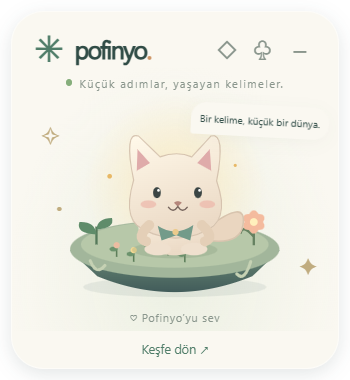
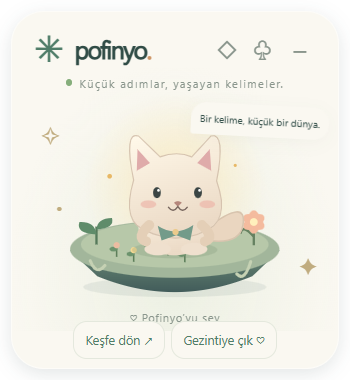
Add roaming desktop companion and daydream bubbles

Changed region(s): [[0.2286, 0.8684, 0.7714, 0.9553]]

diff --git a/ui/mochi.html b/ui/mochi.html
@@ -1,5 +1,5 @@
 <!doctype html>
-<html lang="tr"><head><meta charset="utf-8"><meta name="viewport" content="width=device-width,initial-scale=1"><meta http-equiv="Content-Security-Policy" content="default-src 'self'; script-src 'self'; style-src 'self' 'unsafe-inline'; img-src 'self' data:; media-src 'self'; connect-src 'none'; object-src 'none'; base-uri 'none'; form-action 'none'"><title>Pofinyo · Küçük adımlar, yaşayan kelimeler</title><link rel="stylesheet" href="mochi.css"><link rel="stylesheet" href="journey.css"><link rel="stylesheet" href="education.css"></head>
+<html lang="tr"><head><meta charset="utf-8"><meta name="viewport" content="width=device-width,initial-scale=1"><meta http-equiv="Content-Security-Policy" content="default-src 'self'; script-src 'self'; style-src 'self' 'unsafe-inline'; img-src 'self' data:; media-src 'self'; connect-src 'none'; object-src 'none'; base-uri 'none'; form-action 'none'"><title>Pofinyo · Küçük adımlar, yaşayan kelimeler</title><link rel="stylesheet" href="mochi.css"><link rel="stylesheet" href="journey.css"><link rel="stylesheet" href="education.css"><link rel="stylesheet" href="companion.css"></head>
 <body data-theme="dawn"><main id="widget">
 <header><div class="brand"><span class="brand-mark">✳</span> pofinyo<span class="brand-dot">.</span></div><div class="window-tools"><button id="pass-through" aria-label="Tıklamaları masaüstüne geçir" title="Tıklamaları geçir · tepsiden etkileşime dön">◇</button><button id="wardrobe" title="Pofinyo’yu kişiselleştir" aria-label="Pofinyo’yu kişiselleştir">✿</button><button id="pin" title="Üstte tut" aria-label="Üstte tut" aria-pressed="false">♧</button><button id="mini" title="Küçük arkadaş modu" aria-label="Küçük arkadaş modu">⌁</button><button id="hide" title="Sistem tepsisine gizle" aria-label="Gizle">−</button></div></header>
 <section class="habitat" aria-label="Pofinyo’nun yaşayan adası">
@@ -22,7 +22,7 @@
 <button id="pet" class="pet-hint">♡ Pofinyo’yu sev</button><div id="particles" aria-hidden="true"></div>
 </section>
 <section class="learning" id="learning"><button id="daily" class="daily-strip" aria-label="Bugünkü rotam"><span class="daily-orbit" id="daily-orbit">0</span><span><strong>Bugünkü rotam</strong><small id="daily-progress">5 küçük adım</small></span><span class="daily-arrow">↗</span></button><div class="lesson-top"><span class="eyebrow" id="lesson-label">GÜNÜN KÜÇÜK KEŞFİ</span><span id="level-badge" class="badge">EN · A1</span></div><div class="word-row"><h1 id="word"></h1><button id="bookmark" class="round bookmark" aria-label="Favorilere ekle" aria-pressed="false" title="Favorilere ekle">☆</button><button id="speak" class="round" aria-label="Telaffuzu dinle" title="Telaffuzu dinle">♪</button></div><p class="phonetic" id="phonetic"></p><button class="reveal" id="reveal">Anlamını keşfet <span>↗</span></button><div id="meaning" hidden><p id="translation"></p><p id="example"></p><p id="note"></p></div><div class="lesson-actions"><button class="primary" id="practice">Birlikte oynayalım <span>↗</span></button><button class="next" id="next" aria-label="Sonraki kelime" title="Sonraki kelime">→</button></div><p class="subtle" id="due-status"></p></section>
-<footer><button id="garden"><span>❋</span> Bahçem <b id="xp">0</b></button><button id="journal" aria-label="Kelime defterim">◫ <span>Defterim</span></button><button id="settings" aria-label="Ayarlar">☷ <span>Ayarlar</span></button></footer><button id="expand" hidden>Keşfe dön ↗</button>
+<footer><button id="garden"><span>❋</span> Bahçem <b id="xp">0</b></button><button id="journal" aria-label="Kelime defterim">◫ <span>Defterim</span></button><button id="settings" aria-label="Ayarlar">☷ <span>Ayarlar</span></button></footer><div id="companion-actions"><button id="expand" hidden>Keşfe dön ↗</button><button id="roam-toggle" aria-pressed="false">Gezintiye çık ♡</button></div>
 </main>
 <dialog id="panel"><div class="panel-heading"><div><span class="eyebrow" id="panel-kicker">KÜÇÜK BİR MACERA</span><h2 id="panel-title">Oyun zamanı</h2></div><button id="panel-close" class="round" aria-label="Kapat">×</button></div><div id="panel-content"></div></dialog>
-<script src="lessons.js"></script><script src="journey.js"></script><script src="vendor/fsrs.js"></script><script src="pedagogy.js"></script><script src="curriculum.js"></script><script src="memory.js"></script><script src="mochi.js"></script><script src="studio.js"></script><script src="education.js"></script></body></html>
+<script src="lessons.js"></script><script src="journey.js"></script><script src="vendor/fsrs.js"></script><script src="pedagogy.js"></script><script src="curriculum.js"></script><script src="memory.js"></script><script src="mochi.js"></script><script src="studio.js"></script><script src="education.js"></script><script src="companion.js"></script></body></html>

diff --git a/ui/companion.js b/ui/companion.js
@@ -1,0 +1,35 @@
+'use strict';
+let companion={enabled:false,phase:'off',direction:1},thoughtAt=0,thoughtIndex=0;
+const daydreams=['Bulutların da kelimeleri var mıdır? ☁','Bir yaprak daha… küçük bir başlangıç. ♧','Biraz gezsem, sonra bir kelime öğrensem…','Acaba yarın hangi kelime filizlenecek?','Merak etmek de bir başlangıç. ✧','Bir çay molası kadar küçük bir keşif…','Pof! Aklımda minik bir fikir var.','Sana sessizce eşlik ediyorum. ♡'];
+function nextThought(now=Date.now(),force=false){
+ if(!companion.enabled||hidden||$('panel').open||(!force&&now-thoughtAt<17000))return;
+ thoughtAt=now;thoughtIndex++;
+ const familiar=allLessons().filter(c=>c.language===state.settings.language&&c.mode!=='grammar'&&((state.records[c.id]?.best||0)>0||Object.hasOwn(state.education.introduced,c.id)));
+ let thought=daydreams[thoughtIndex%daydreams.length];
+ if(familiar.length&&thoughtIndex%3===0){const card=familiar[Math.floor(thoughtIndex/3)%familiar.length];thought=`${card.front}… ${card.answer}. Küçük bir bağ daha. ♡`;}
+ $('bubble').textContent=thought.length>112?thought.slice(0,109)+'…':thought;$('bubble').title=thought;
+}
+function applyCompanion(value){
+ if(!value||typeof value.enabled!=='boolean')return;
+ const started=!companion.enabled&&value.enabled;companion=value;
+ if(value.layout){mini=value.layout==='pet';document.body.classList.toggle('mini',mini);$('expand').hidden=!mini;}
+ document.body.classList.toggle('roaming',value.enabled);document.body.classList.toggle('walking',value.phase==='walking');document.body.dataset.direction=value.direction===-1?'left':'right';
+ $('roam-toggle').textContent=value.enabled?'Burada dinlen ⏸':'Gezintiye çık ♡';$('roam-toggle').setAttribute('aria-pressed',String(value.enabled));
+ if(typeof value.pinned==='boolean'){pinned=value.pinned;$('pin').setAttribute('aria-pressed',String(pinned));}
+ $('bubble').setAttribute('aria-live',value.enabled?'off':'polite');
+ if(started)nextThought(Date.now(),true);else nextThought();
+ if(!value.enabled){$('bubble').removeAttribute('title');document.body.classList.remove('walking');}
+ if($('roaming-setting'))$('roaming-setting').checked=value.enabled;
+}
+async function setCompanionRoaming(value){if(!native?.setRoaming)return;await syncCompanionMotion();applyCompanion(await native.setRoaming(value));}
+function syncCompanionMotion(){return native?.companionMotion?.(state.settings.motion&&!matchMedia('(prefers-reduced-motion: reduce)').matches);}
+native?.onCompanion?.(applyCompanion);
+$('roam-toggle').onclick=event=>{const pointer=event.detail>0;guarded(async()=>{await setCompanionRoaming(!companion.enabled);if(pointer)$('roam-toggle').blur();})();};
+document.documentElement.addEventListener('pointerenter',()=>{native?.companionHover?.(true)?.catch(()=>{});},{passive:true});
+document.documentElement.addEventListener('pointerleave',()=>{native?.companionHover?.(false)?.catch(()=>{});},{passive:true});
+const companionAmbient=window.mochiAmbient;window.mochiAmbient=now=>{if(!companion.enabled)companionAmbient?.(now);else{document.body.classList.remove('sleeping');nextThought(now);}};
+const companionApplySettings=applySettings;applySettings=function(){companionApplySettings();syncCompanionMotion()?.catch(()=>{});};
+const companionSettings=openSettings;openSettings=async function(){await companionSettings();if(!$('language'))return;const section=document.createElement('div');section.innerHTML=`<label class="setting"><span>Masaüstü gezintisi<small>Küçük arkadaş modunda gezer, durur ve düşünür. Üzerine gelince bekler.</small></span><input id="roaming-setting" type="checkbox" ${companion.enabled?'checked':''}></label><p class="intro">Baloncuklar kısa düşünceler ve tanıştığın kelimelerden çağrışımlar gösterir. Öğrenme puanı kazandırmaz. Azaltılmış hareket açıkken yerinde düşünür. Gezintiyi küçük arkadaş düğmesinden veya sistem tepsisinden durdurabilirsin.</p>`;$('panel-content').prepend(section);$('roaming-setting').onchange=guarded(async()=>{const enabled=$('roaming-setting').checked;closePanel();await setCompanionRoaming(enabled);});};
+$('settings').onclick=openSettings;
+matchMedia('(prefers-reduced-motion: reduce)').addEventListener('change',()=>syncCompanionMotion()?.catch(()=>{}));
+syncCompanionMotion()?.catch(()=>{});native?.getRoaming?.().then(applyCompanion).catch(()=>{});

diff --git a/ui/companion.css b/ui/companion.css
@@ -1,0 +1,1 @@
+#companion-actions{display:none}body.mini #companion-actions{display:flex;position:absolute;bottom:7px;left:9px;right:9px;justify-content:center;gap:5px;z-index:5;-webkit-app-region:no-drag}#companion-actions button{padding:8px 9px;border-radius:11px;font-size:10px;background:var(--paper);border:1px solid var(--line);color:var(--accent);white-space:nowrap}body.mini #companion-actions #expand{display:block;padding:8px 9px}body.roaming #widget{background:transparent;border-color:transparent;box-shadow:none;overflow:visible}body.roaming header{opacity:0;transition:opacity .2s;background:var(--paper);border:1px solid var(--line);border-radius:15px;margin:0 6px;padding:5px 9px;height:36px}body.roaming:hover header,body.roaming:focus-within header{opacity:1}body.roaming .brand{font-size:17px}body.roaming .brand-mark{font-size:20px}body.roaming .sky-label,body.roaming .orbit{visibility:hidden}body.roaming .bubble{display:block;top:11px;right:8px;max-width:174px;border-radius:23px;font-size:11px;line-height:1.5;padding:12px 14px;background:var(--paper);border:1px solid var(--line);box-shadow:0 4px 12px #344c4612;pointer-events:none}body.roaming .bubble:after{content:'';position:absolute;width:8px;height:8px;bottom:-12px;left:27px;border-radius:50%;background:var(--paper);border:1px solid var(--line)}body.roaming .bubble:before{content:'';position:absolute;width:5px;height:5px;bottom:-22px;left:20px;border-radius:50%;background:var(--paper);border:1px solid var(--line)}body.roaming .island{height:215px;bottom:-9px}body.roaming .pet-hint{display:none}body.roaming #companion-actions{opacity:0;transition:opacity .2s}body.roaming:hover #companion-actions,body.roaming:focus-within #companion-actions{opacity:1}body.roaming.walking .body{animation:pofinyo-step .65s ease-in-out infinite;transform-origin:210px 195px}body.roaming.walking .floating-land{animation:none}body.roaming.walking[data-direction=left] .face{--look-x:-3px}body.roaming.walking[data-direction=right] .face{--look-x:3px}@keyframes pofinyo-step{0%,100%{transform:translateY(0) rotate(-2deg)}50%{transform:translateY(-5px) rotate(2deg)}}body.no-motion.roaming .body{animation:none}@media(prefers-reduced-motion:reduce){body.roaming .body{animation:none!important}body.roaming header,body.roaming #companion-actions{transition:none}}

diff --git a/README.md b/README.md
@@ -8,6 +8,18 @@ Pofinyo’ya dokun, bir kalıpla tanış, aklından yaz ve başka bir cümlede k
 
 **Windows masaüstü uygulaması · Türkçe arayüz · Hesapsız · Yerel kayıt · MIT**
 
+## Masaüstünde gezen küçük arkadaşın
+
+**Pofinyo 1.3:** küçük arkadaş modunda **Gezintiye çık** düğmesine bas. Yüzen adasıyla sakin sakin dolaşır, durur ve başının üstündeki düşünce baloncuğunda küçük çağrışımlar kurar.
+
+<p align="center"><img src="docs/screenshots/pofinyo-daydream.gif" width="300" alt="Pofinyo'nun düşünce baloncuğu ve gezinti animasyonu"></p>
+
+- Çalışma alanının içinde kalır; görev çubuğunun ötesine geçmez. Şimdilik bulunduğu monitörde dolaşır.
+- Üzerine fare geldiğinde bekler; duraklayınca küçük düşünceler veya tanıştığın kelimeler görünür. Global fare/klavye takibi yapılmaz.
+- Azaltılmış hareket açıkken yerinde düşünür. Gizlenince, bilgisayar kilitlenince veya uykuya geçince hareket durur.
+- **Burada dinlen** gezintiyi kapatır; **Keşfe dön** öğrenme ekranını açar. Sistem tepsisinden de yönetilebilir.
+- Gezinti tercihi yeniden açılışta hatırlanır. Baloncuklar ve karakter hareketleri öğrenme puanı vermez.
+
 ## Nasıl öğretiyor?
 
 **Tanış → anlamı hatırla → yardımsız yaz → başka bağlamda kullan → zamanı gelince yeniden hatırla.**
@@ -46,7 +58,7 @@ Bu ilk ayrıntılı rota **İngilizce temelidir**; tam A1-C2 kursu veya CEFR ser
 
 ## Başla
 
-Windows x64 için **Pofinyo-Setup-1.2.1.exe** kurulum paketini veya **Pofinyo-Portable-1.2.1.exe** taşınabilir sürümünü kullan. Paketler doğrulanmış [GitHub Actions çalışmasının](https://github.com/snansrin/Pofinyo/actions/runs/40445157940) **Pofinyo-Windows** çıktısında bulunur. GitHub hesabınla çalışmayı açıp **Artifacts → Pofinyo-Windows** arşivini indir.
+Windows x64 için **Pofinyo-Setup-1.3.0.exe** kurulum paketini veya **Pofinyo-Portable-1.3.0.exe** taşınabilir sürümünü kullan. Paketler doğrulanmış [GitHub Actions çalışmasının](https://github.com/snansrin/Pofinyo/actions/workflows/ci.yml?query=branch%3Afeat%2Fmochi-living-language) **Pofinyo-Windows** çıktısında bulunur. GitHub hesabınla çalışmayı açıp **Artifacts → Pofinyo-Windows** arşivini indir.
 
 1. Uygulamayı aç; **Ayarlar** bölümünden dilini seç.
 2. Sıralı temel kurs için **İngilizce → Bugünkü rotam** yolunu izle.
@@ -91,10 +103,11 @@ npm run check
 npm run test:desktop
 npm run test:studio
 npm run test:education
+npm run test:companion
 npm run dist:win
 ```
 
-`npm run check` sözdizimi kontrollerini ve 32 model/veri/yerleşim testini çalıştırır. Üç masaüstü senaryo grubu gerçek Electron oturumlarında mevcut oyunları, defteri, eğitim rotasını, kayıtları ve pencere davranışını doğrular. Her test ayrı profil kullanır. Grafik oturumu gerekir.
+`npm run check` sözdizimi kontrollerini ve 38 model/veri/yerleşim testini çalıştırır. Dört masaüstü senaryo grubu gerçek Electron oturumlarında mevcut oyunları, defteri, eğitim rotasını, kayıtları ve pencere davranışını doğrular. Her test ayrı profil kullanır. Grafik oturumu gerekir.
 
 Windows kurulum ve taşınabilir paketleri doğrulanır. macOS/Linux yapılandırmaları vardır; bu platformlar bu sürümde test edilmedi. Electron sandbox, context isolation ve kapalı Node integration kullanılır. Gizlenen pencerede animasyonlar durur; uygulama Electron’un kaynak maliyetini taşır.
 

diff --git a/docs/ROAMING-1.3.md b/docs/ROAMING-1.3.md
@@ -1,0 +1,11 @@
+# Pofinyo 1.3 - masaüstü gezintisi
+
+Küçük arkadaş moduna açılıp kapanabilen bir gezinti eklendi. Yerel pencere, geçerli monitörün çalışma alanında yumuşak geçişlerle hareket eder. Altında yüzen adası kalır; karakter yürüyüşte hafifçe salınır. Hedefler, kısa beklemeler ve hareket adımları yerel ve deterministik sınırlar içindedir; sürekli yapay zekâ isteği veya global giriş kaydı yoktur.
+
+Gezintideki düşünce baloncuğu sakin, yazılmış cümleler ve tanışılan kelimelerden çağrışımlar gösterir. Bu içerik puanlanmaz. İsteğe bağlı açılır; açık tercih yeniden başlatmada korunur. Üzerine gelme, manuel taşıma, gizleme, kilit, uyku ve hareket azaltma durumlarında hareket bekler. Monitör çalışma alanı değişirse sınırlar yeniden hesaplanır. Çoklu monitörde geçiş yapılmaz.
+
+Küçük modda Gezintiye çık / Burada dinlen, ayarlarda Masaüstü gezintisi ve sistem tepsisinde gezinme / öğrenmeye dönüş seçenekleri vardır. Gezinti süresince üstte tutulur; kapatılınca önceki üstte tutma tercihi geri gelir. Keşfe dön ile widget konumuna geri dönülür. Eski profil, origin ve eğitim kayıtları korunur.
+
+38 model/veri/yerleşim testi geçti. Gezinti modeli negatif koordinatlar, dar alan, yumuşak adımlar, bekleme, durdurma, hover, gizleme, hareket azaltma, uyku ve alan değişimini kapsar. Dört gerçek Electron akış grubu geçti: mevcut oyunlar, defter/aksesuarlar, eğitim rotası ve gezinti. Gezinti testinde gerçek pencere koordinatlarının değiştiği ölçüldü; düşünce değişimi, sıfır pasif XP, kayıt tercihi, renderer yeniden yükleme, durdurma, üstte tutmayı geri alma ve widget dönüşü kontrol edildi. Windows çerçevesiz pencere yuvarlaması dönüşte iki piksel toleransla değerlendirildi.
+
+Önizleme GIF'i gerçek test penceresinin 18 karesinden oluşturuldu; kullanıcının masaüstü kaydedilmedi. PNG ve GIF görsel olarak incelendi. Geniş donanım örneklemi veya gerçek çok monitörlü kullanıcı deneyi yapılmadı; sınırlama mantığı model testleriyle doğrulandı.
